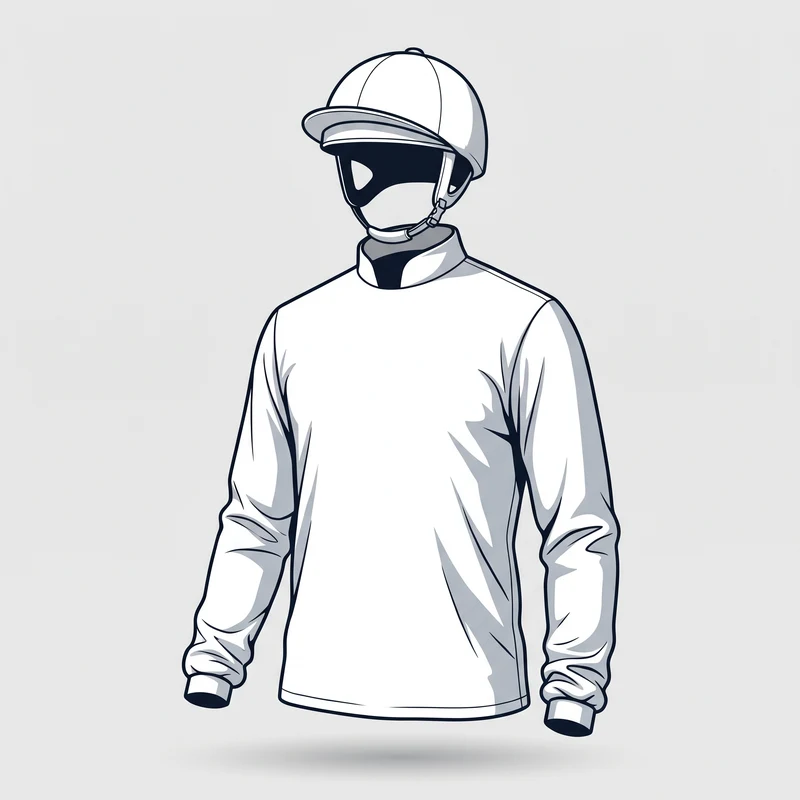
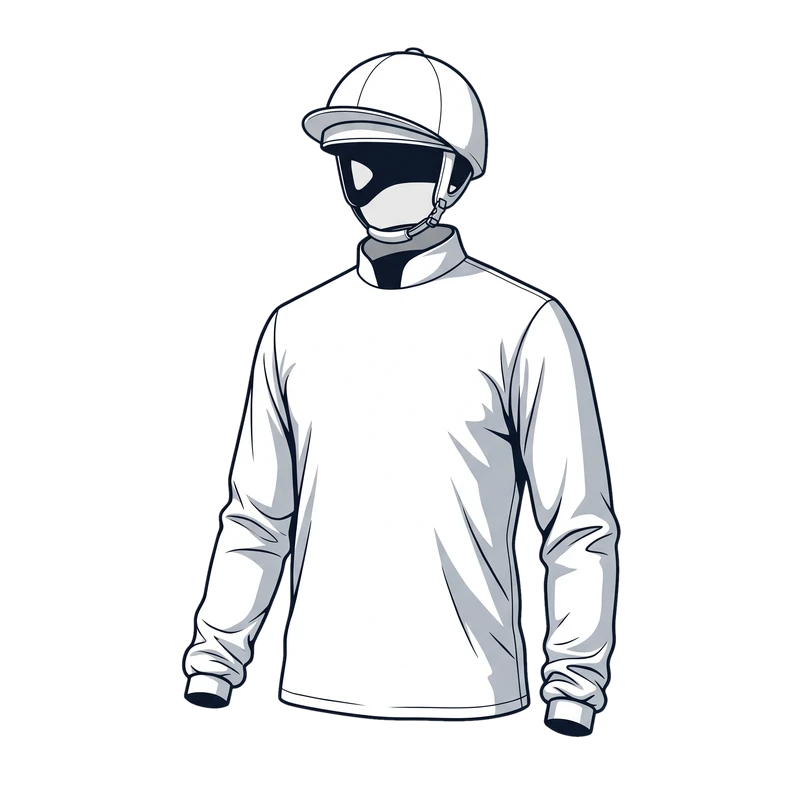
Silks: transparent drawing

diff --git a/assets/silks.js b/assets/silks.js
@@ -24,7 +24,7 @@
   function svg(id, w) {
     var B = c(S.b), B2 = c(S.b2), Sl = c(S.s), Sl2 = c(S.s2), C = c(S.c), C2 = c(S.c2), o = "", i, y;
     var M = ["body", "sleeveL", "sleeveR", "cuffL", "cuffR", "collar", "dome", "peak"];
-    o += '<svg viewBox="150 28 500 744" width="' + w + '" xmlns="http://www.w3.org/2000/svg" xmlns:xlink="http://www.w3.org/1999/xlink" role="img" aria-label="Racing silks: ' + esc(describe()) + '" style="display:block;border-radius:6px"><defs>';
+    o += '<svg viewBox="160 28 480 716" width="' + w + '" xmlns="http://www.w3.org/2000/svg" xmlns:xlink="http://www.w3.org/1999/xlink" role="img" aria-label="Racing silks: ' + esc(describe()) + '" style="display:block"><defs>';
     M.forEach(function (k) { o += '<mask id="' + id + k + '" maskUnits="userSpaceOnUse" x="0" y="0" width="800" height="800"><image href="' + IMG + "m-" + k + '.png" xlink:href="' + IMG + "m-" + k + '.png" x="0" y="0" width="800" height="800"/></mask>'; });
     o += '</defs><image href="' + IMG + 'base.webp" xlink:href="' + IMG + 'base.webp" x="0" y="0" width="800" height="800"/><g style="mix-blend-mode:multiply">';
     function panel(k, fill, inner) { return '<g mask="url(#' + id + k + ')"><rect x="0" y="0" width="800" height="800" fill="' + fill + '"/>' + (inner || "") + "</g>"; }
